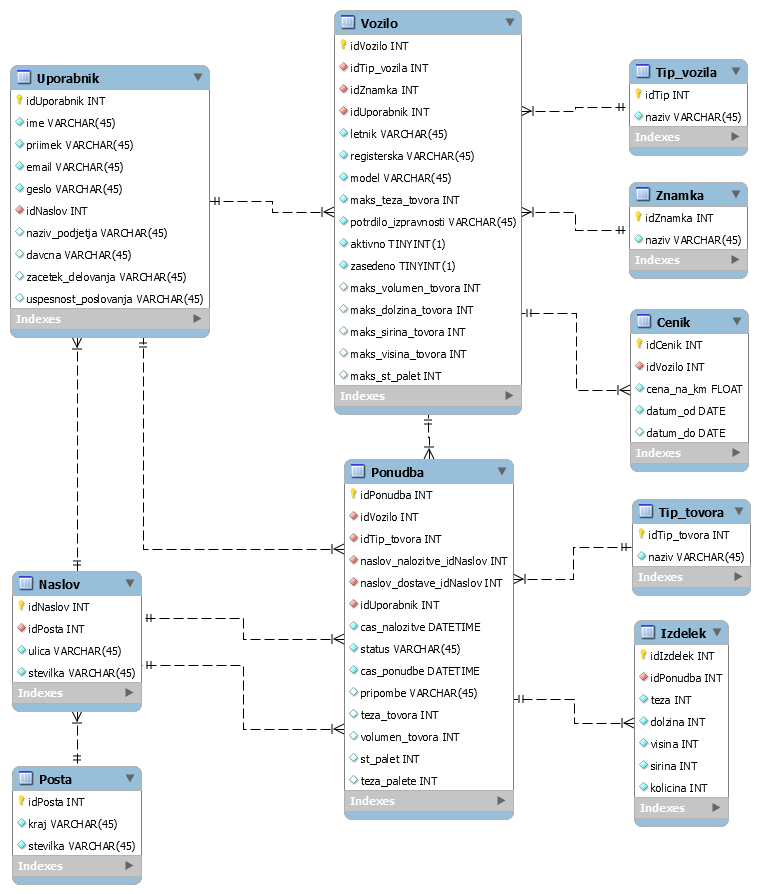
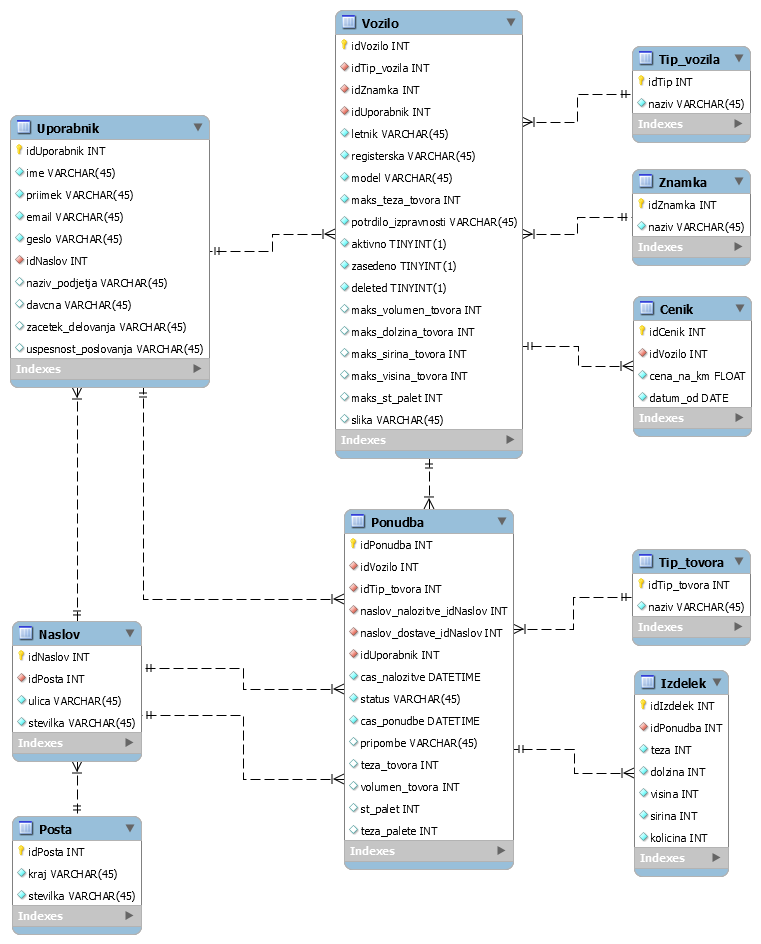
Updated ER

diff --git a/config/create_database.js b/config/create_database.js
@@ -146,7 +146,6 @@ async function create_database() {
         table.increments('id');
         table.float('cena_na_km').notNullable();
         table.date('datum_od').defaultTo(knex.fn.now());
-        table.date('datum_do');
 
         table.integer('idVozilo').references('id').inTable('Vozilo').notNullable();
     })
